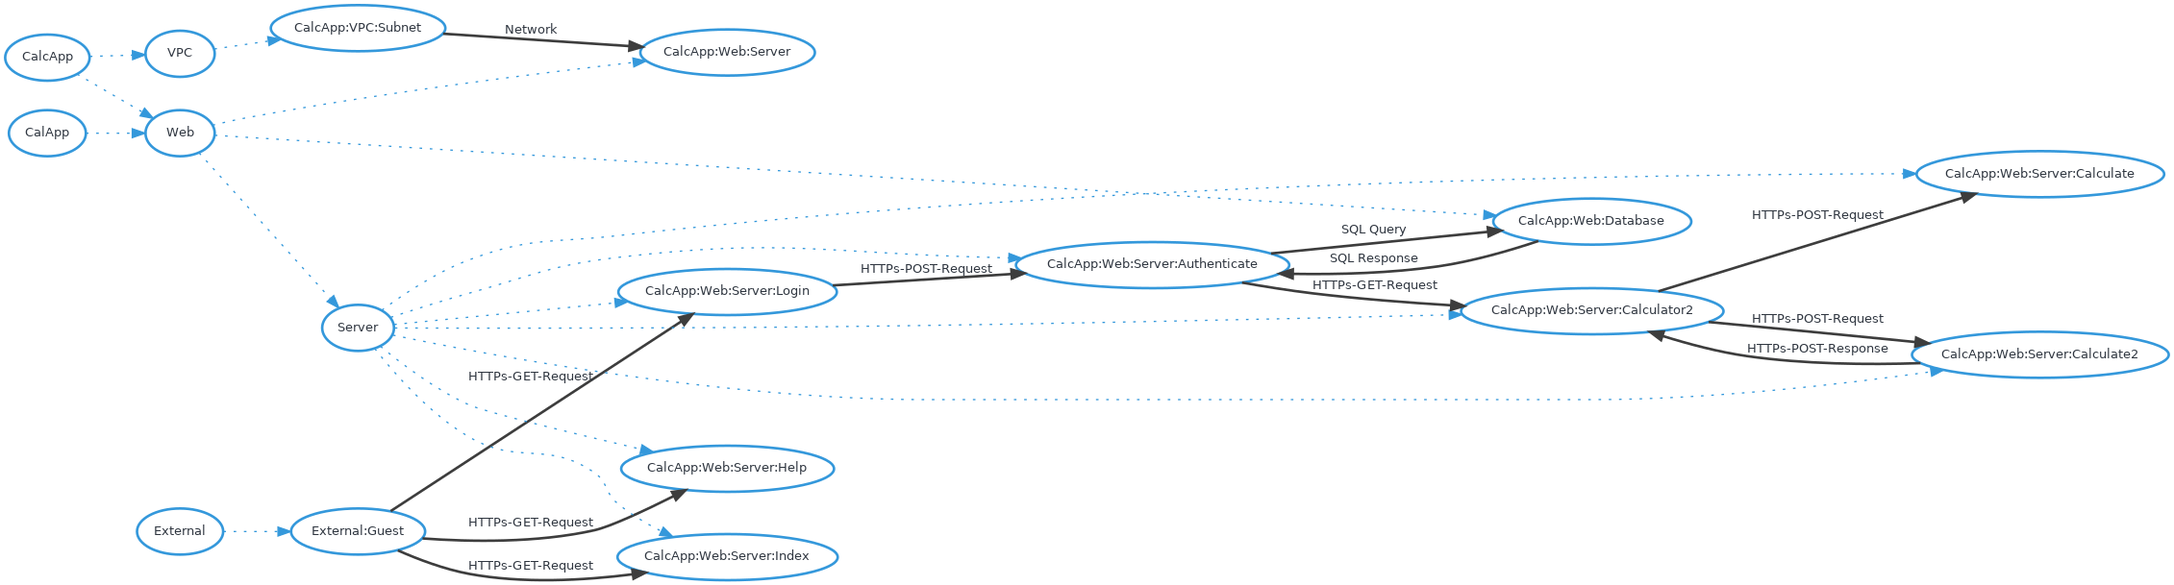
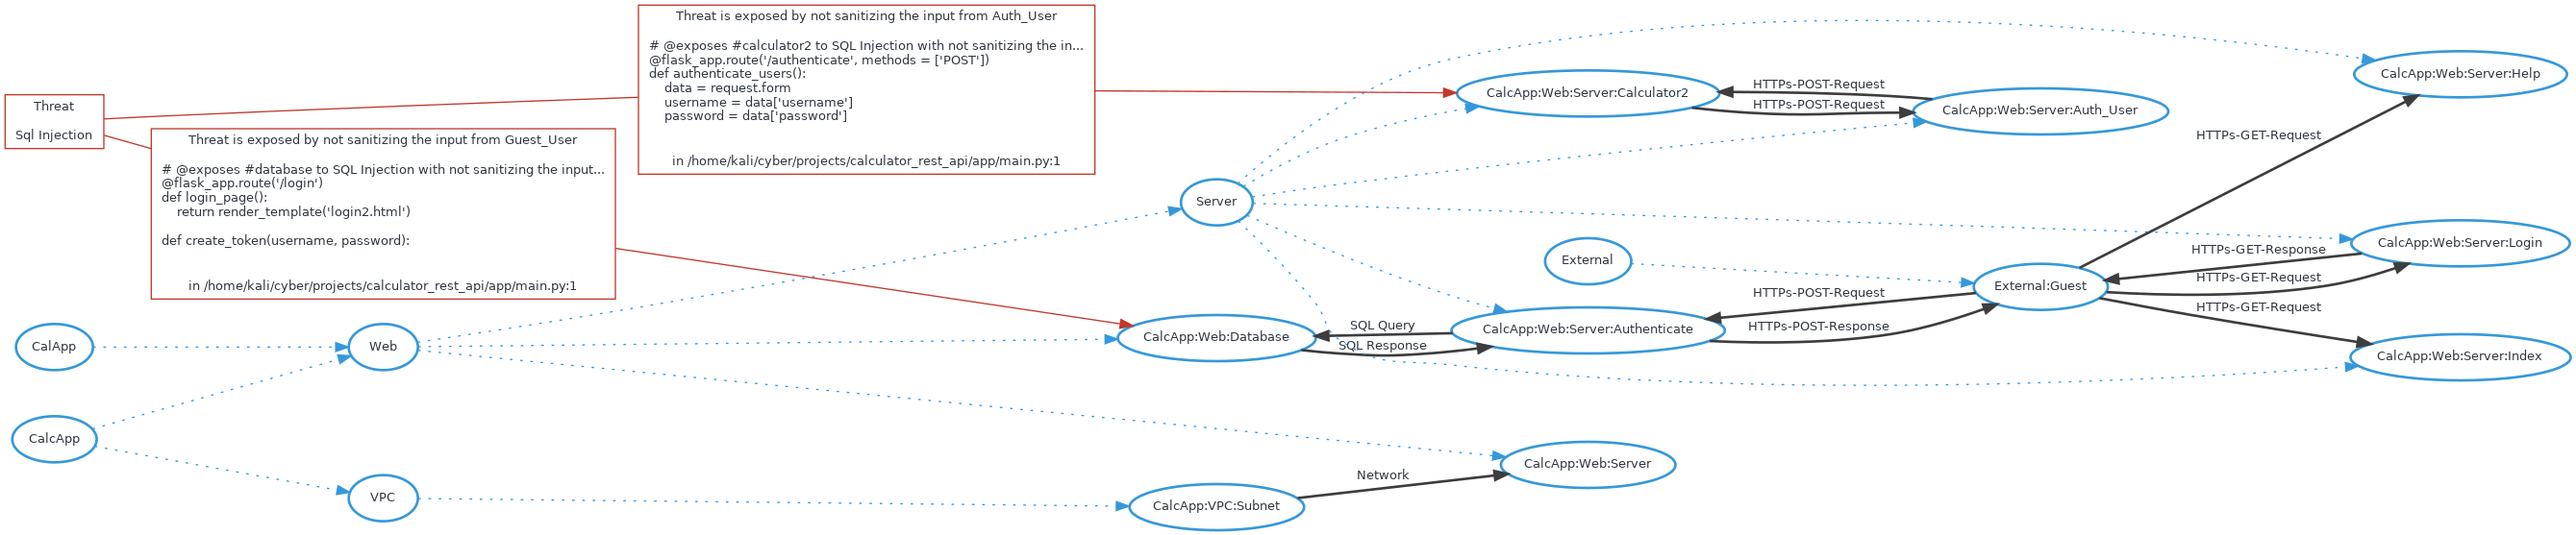
updated threatmodel

diff --git a/app/main.py b/app/main.py
@@ -47,6 +47,12 @@ def help_page():
 
 # @component CalcApp:Web:Server:Login (#login)
 # @connects #guest to #login with HTTPs-GET-Request
+# @connects #login to #guest with HTTPs-GET-Response
+# @connects #guest to #authenticate with HTTPs-POST-Request
+# @connects #authenticate to #guest with HTTPs-POST-Response
+
+# @threat SQL Injection (#sqlinj)
+# @exposes #database to SQL Injection with not sanitizing the input from Guest_User
 @flask_app.route('/login')
 def login_page():
     return render_template('login2.html')
@@ -57,9 +63,11 @@ def create_token(username, password):
     return token
 
 # @component CalcApp:Web:Server:Authenticate (#authenticate)
-# @connects #login to #authenticate with HTTPs-POST-Request
+# @component CalcApp:Web:Server:Auth_User (#auth_user)
 # @connects #authenticate to #database with SQL Query
 # @connects #database to #authenticate with SQL Response
+
+# @exposes #calculator2 to SQL Injection with not sanitizing the input from Auth_User
 @flask_app.route('/authenticate', methods = ['POST'])
 def authenticate_users():
     data = request.form
@@ -101,7 +109,8 @@ def calculator():
         return render_template('calculator.html', **kwargs)
 
 # @component CalcApp:Web:Server:Calculator2 (#calculator2)
-# @connects #authenticate to #calculator2 with HTTPs-GET-Request
+# @connects #auth_user to #calculator2 with HTTPs-POST-Request
+# @connects #calculator2 to #auth_user with HTTPs-POST-Request
 @flask_app.route('/calculator2', methods = ['GET'])
 def calculator_get():
     isUserLoggedIn = False
@@ -114,8 +123,6 @@ def calculator_get():
         resp = make_response(redirect('/login'))
         return resp
 
-# @component CalcApp:Web:Server:Calculate (#calculate)
-# @connects #calculator2 to #calculate with HTTPs-POST-Request
 @flask_app.route('/calculate', methods = ['POST'])
 def calculate_post():
     number_1 = request.form.get('number_1', type = int)
@@ -126,9 +133,6 @@ def calculate_post():
 
     return str(result)
 
-# @component CalcApp:Web:Server:Calculate2 (#calculate2)
-# @connects #calculator2 to #calculate2 with HTTPs-POST-Request
-# @connects #calculate2 to #calculator2 with HTTPs-POST-Response
 @flask_app.route('/calculate2', methods = ['POST'])
 def calculate_post2():
     print(request.form)

diff --git a/ThreatModel.md b/ThreatModel.md
@@ -10,6 +10,34 @@ A threatspec project.
 
 # Exposures
 
+## Sql injection against CalcApp:Web:Database
+Not sanitizing the input from guest_user
+
+```
+# @exposes #database to SQL Injection with not sanitizing the input from Guest_User
+@flask_app.route('/login')
+def login_page():
+    return render_template('login2.html')
+
+def create_token(username, password):
+
+```
+/home/kali/cyber/projects/calculator_rest_api/app/main.py:1
+
+## Sql injection against CalcApp:Web:Server:Calculator2
+Not sanitizing the input from auth_user
+
+```
+# @exposes #calculator2 to SQL Injection with not sanitizing the input from Auth_User
+@flask_app.route('/authenticate', methods = ['POST'])
+def authenticate_users():
+    data = request.form
+    username = data['username']
+    password = data['password']
+
+```
+/home/kali/cyber/projects/calculator_rest_api/app/main.py:1
+
 
 # Acceptances
 
@@ -48,7 +76,7 @@ HTTPs-GET-Request
 def help_page():
     return "This is the help page"
 
-@flask_app.route('/login')
+
 
 ```
 /home/kali/cyber/projects/calculator_rest_api/app/main.py:1
@@ -58,25 +86,53 @@ HTTPs-GET-Request
 
 ```
 # @connects #guest to #login with HTTPs-GET-Request
+
 @flask_app.route('/login')
 def login_page():
     return render_template('login2.html')
 
-def create_token(username, password):
 
 ```
 /home/kali/cyber/projects/calculator_rest_api/app/main.py:1
 
-## CalcApp:Web:Server:Login To CalcApp:Web:Server:Authenticate
+## CalcApp:Web:Server:Login To External:Guest
+HTTPs-GET-Response
+
+```
+# @connects #login to #guest with HTTPs-GET-Response
+
+@flask_app.route('/login')
+def login_page():
+    return render_template('login2.html')
+
+
+```
+/home/kali/cyber/projects/calculator_rest_api/app/main.py:1
+
+## External:Guest To CalcApp:Web:Server:Authenticate
 HTTPs-POST-Request
 
 ```
-# @connects #login to #authenticate with HTTPs-POST-Request
-@flask_app.route('/authenticate', methods = ['POST'])
-def authenticate_users():
-    data = request.form
-    username = data['username']
-    password = data['password']
+# @connects #guest to #authenticate with HTTPs-POST-Request
+
+@flask_app.route('/login')
+def login_page():
+    return render_template('login2.html')
+
+
+```
+/home/kali/cyber/projects/calculator_rest_api/app/main.py:1
+
+## CalcApp:Web:Server:Authenticate To External:Guest
+HTTPs-POST-Response
+
+```
+# @connects #authenticate to #guest with HTTPs-POST-Response
+
+@flask_app.route('/login')
+def login_page():
+    return render_template('login2.html')
+
 
 ```
 /home/kali/cyber/projects/calculator_rest_api/app/main.py:1
@@ -86,11 +142,11 @@ SQL Query
 
 ```
 # @connects #authenticate to #database with SQL Query
+
 @flask_app.route('/authenticate', methods = ['POST'])
 def authenticate_users():
     data = request.form
     username = data['username']
-    password = data['password']
 
 ```
 /home/kali/cyber/projects/calculator_rest_api/app/main.py:1
@@ -100,20 +156,20 @@ SQL Response
 
 ```
 # @connects #database to #authenticate with SQL Response
+
 @flask_app.route('/authenticate', methods = ['POST'])
 def authenticate_users():
     data = request.form
     username = data['username']
-    password = data['password']
 
 ```
 /home/kali/cyber/projects/calculator_rest_api/app/main.py:1
 
-## CalcApp:Web:Server:Authenticate To CalcApp:Web:Server:Calculator2
-HTTPs-GET-Request
+## CalcApp:Web:Server:Auth_User To CalcApp:Web:Server:Calculator2
+HTTPs-POST-Request
 
 ```
-# @connects #authenticate to #calculator2 with HTTPs-GET-Request
+# @connects #auth_user to #calculator2 with HTTPs-POST-Request
 @flask_app.route('/calculator2', methods = ['GET'])
 def calculator_get():
     isUserLoggedIn = False
@@ -123,44 +179,16 @@ def calculator_get():
 ```
 /home/kali/cyber/projects/calculator_rest_api/app/main.py:1
 
-## CalcApp:Web:Server:Calculator2 To CalcApp:Web:Server:Calculate
+## CalcApp:Web:Server:Calculator2 To CalcApp:Web:Server:Auth_User
 HTTPs-POST-Request
 
 ```
-# @connects #calculator2 to #calculate with HTTPs-POST-Request
-@flask_app.route('/calculate', methods = ['POST'])
-def calculate_post():
-    number_1 = request.form.get('number_1', type = int)
-    number_2 = request.form.get('number_2', type = int)
-    opertaion = request.form.get('operation')
-
-```
-/home/kali/cyber/projects/calculator_rest_api/app/main.py:1
-
-## CalcApp:Web:Server:Calculator2 To CalcApp:Web:Server:Calculate2
-HTTPs-POST-Request
-
-```
-# @connects #calculator2 to #calculate2 with HTTPs-POST-Request
-@flask_app.route('/calculate2', methods = ['POST'])
-def calculate_post2():
-    print(request.form)
-    number_1 = request.form.get('number_1', type = int)
-    number_2 = request.form.get('number_2', type = int)
-
-```
-/home/kali/cyber/projects/calculator_rest_api/app/main.py:1
-
-## CalcApp:Web:Server:Calculate2 To CalcApp:Web:Server:Calculator2
-HTTPs-POST-Response
-
-```
-# @connects #calculate2 to #calculator2 with HTTPs-POST-Response
-@flask_app.route('/calculate2', methods = ['POST'])
-def calculate_post2():
-    print(request.form)
-    number_1 = request.form.get('number_1', type = int)
-    number_2 = request.form.get('number_2', type = int)
+# @connects #calculator2 to #auth_user with HTTPs-POST-Request
+@flask_app.route('/calculator2', methods = ['GET'])
+def calculator_get():
+    isUserLoggedIn = False
+    if 'token' in request.cookies:
+        isUserLoggedIn = verify_token(request.cookies['token'])
 
 ```
 /home/kali/cyber/projects/calculator_rest_api/app/main.py:1
@@ -182,6 +210,10 @@ resource "aws_instance" "cyber94_calculator2_mohammed_app_server_tf" {
 
 # Components
 
+## CalcApp:Web:Database
+
+## CalcApp:Web:Server:Calculator2
+
 ## External:Guest
 
 ## CalcApp:Web:Server:Index
@@ -192,13 +224,7 @@ resource "aws_instance" "cyber94_calculator2_mohammed_app_server_tf" {
 
 ## CalcApp:Web:Server:Authenticate
 
-## CalcApp:Web:Database
-
-## CalcApp:Web:Server:Calculator2
-
-## CalcApp:Web:Server:Calculate
-
-## CalcApp:Web:Server:Calculate2
+## CalcApp:Web:Server:Auth_User
 
 ## CalcApp:VPC:Subnet
 
@@ -206,6 +232,9 @@ resource "aws_instance" "cyber94_calculator2_mohammed_app_server_tf" {
 
 
 # Threats
+
+## Sql injection
+
 
 
 # Controls
